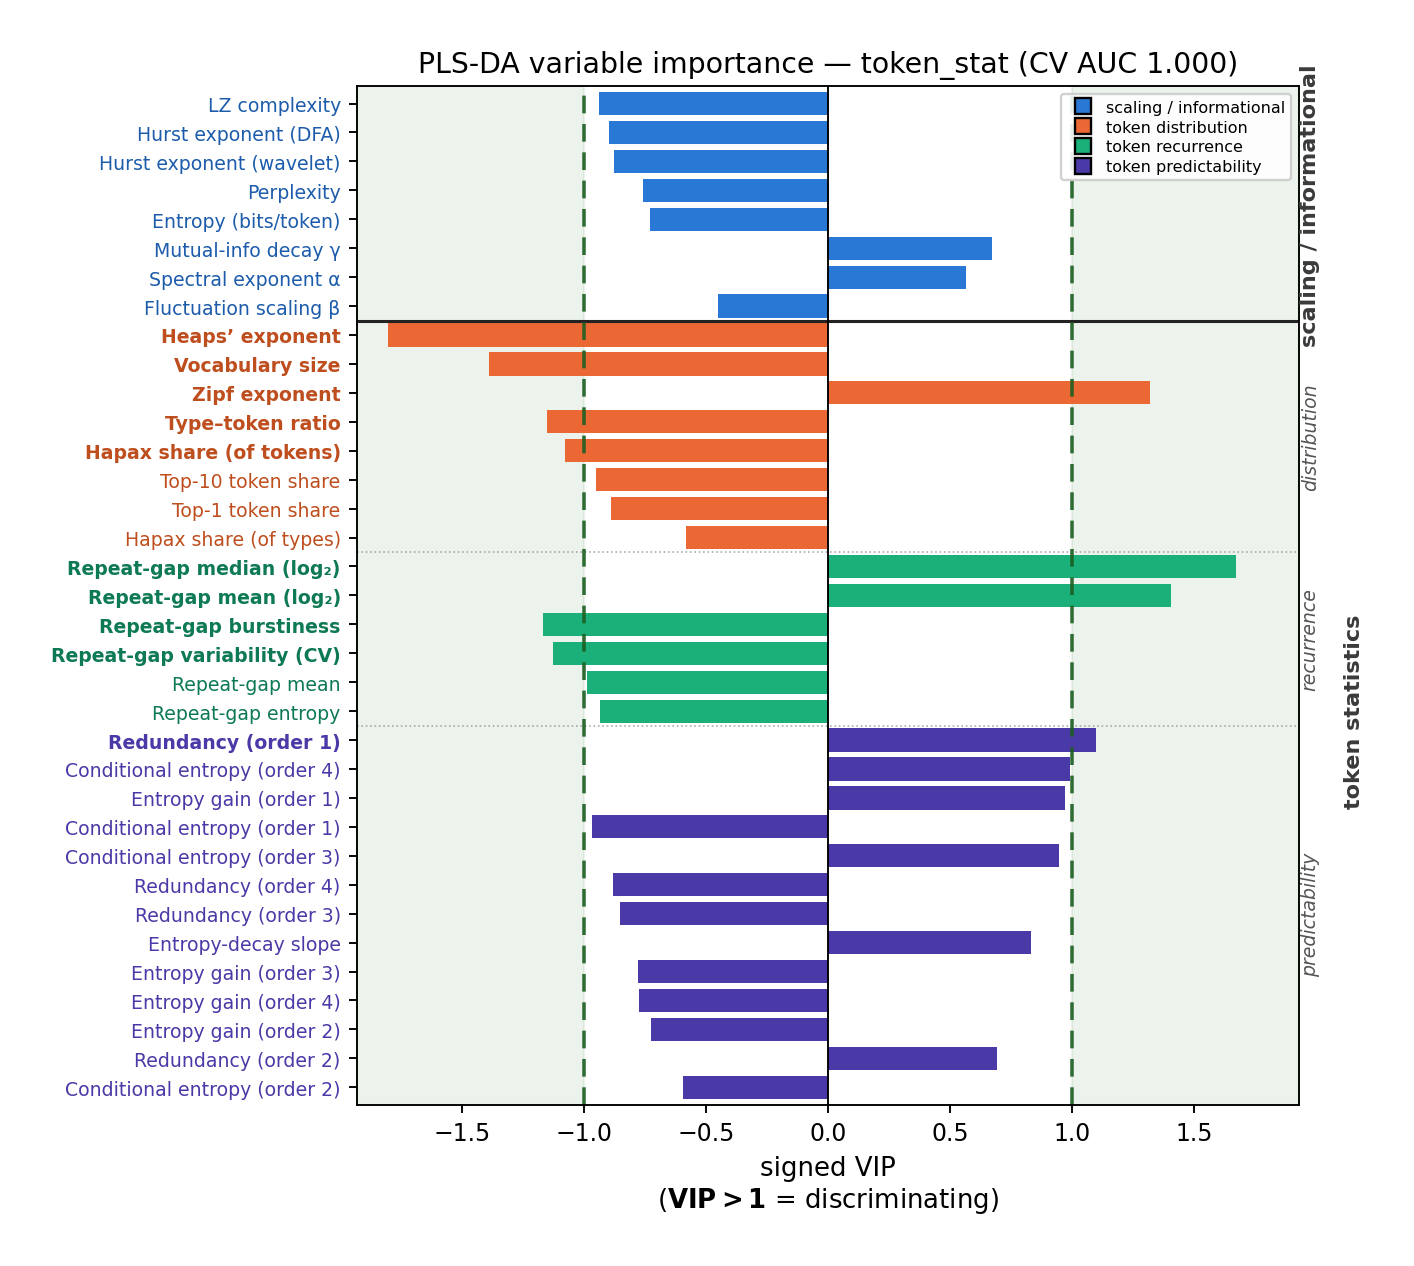
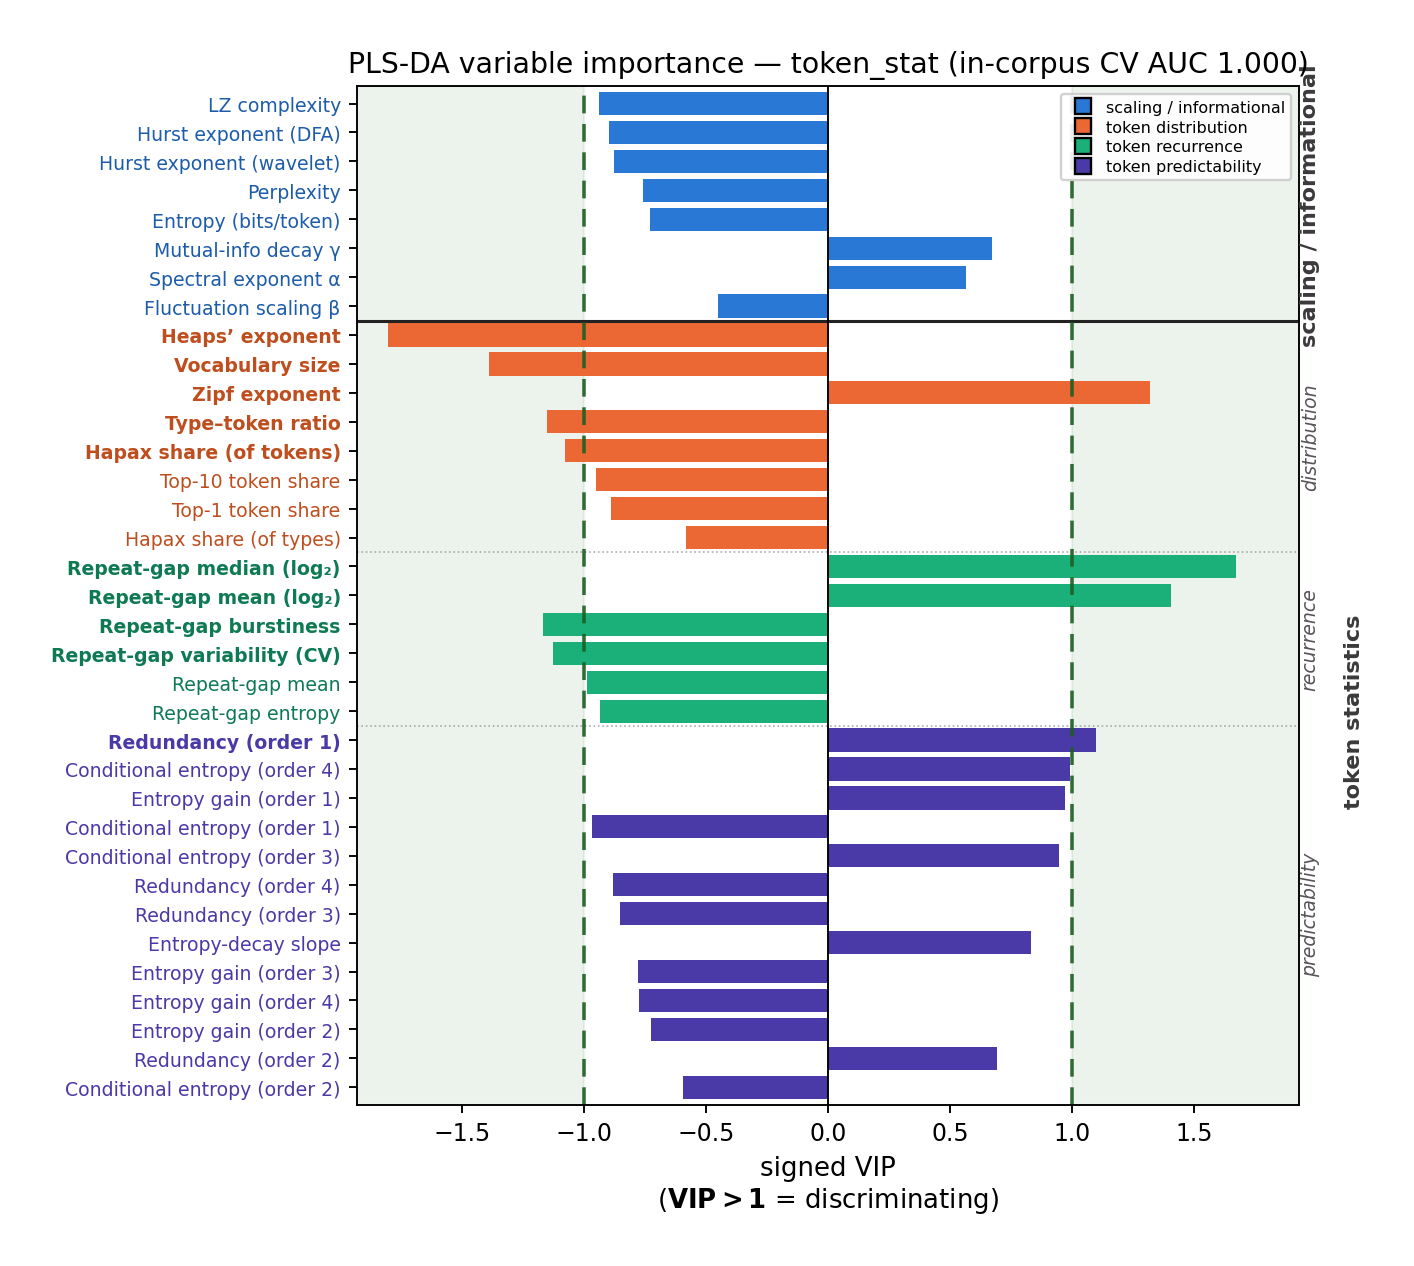
Clarify in-corpus PLS validation

Changed region(s): [[0.2489, 0.0308, 0.9335, 0.0616]]

diff --git a/analysis/plsda_discriminant.py b/analysis/plsda_discriminant.py
@@ -241,7 +241,8 @@ def plot_vip(table: pd.DataFrame, out_path: Path, feature_set: str, auc: float) 
         ax.axvline(x, color="#1B5E20", ls=(0, (5, 3)), lw=1.5, alpha=0.9, zorder=2)
     ax.axvline(0, color="black", lw=0.8)
     ax.set_xlabel("signed VIP\n($\\mathbf{VIP > 1}$ = discriminating)", fontsize=11)
-    ax.set_title(f"PLS-DA variable importance — {feature_set} (CV AUC {auc:.3f})", fontsize=12)
+    ax.set_title(f"PLS-DA variable importance — {feature_set} "
+                 f"(in-corpus CV AUC {auc:.3f})", fontsize=12)
     fams = [f for f in FINE_ORDER if f in set(t["fam"])]
     ax.legend(handles=[plt.Line2D([], [], marker="s", linestyle="", markersize=6.5,
                                   markerfacecolor=FAM_COLOR[f], markeredgecolor="black",
@@ -484,7 +485,7 @@ def score_figure(out_path, Tn, Tg, gen_modes, nat_bins, size_bins, n_feat, fs, a
     else:
         ax.set_title(f"PLS-DA LV{x_component + 1} × LV{y_component + 1} "
                      f"({fs}, {n_feat} feat, per-bin normalized){title_extra}\n"
-                     f"natural vs generated — CV AUC {auc:.3f}")
+                     f"natural vs generated — in-corpus CV AUC {auc:.3f}")
 
     # ── three legends: descriptor-family colours · point types · landmark key ──
     # (1+2) one legend: point types (natural, contours, generated modes) plus
@@ -594,7 +595,7 @@ def plot_per_bin(out_path, Tn, Tg, nat_bins, gen_bins, gen_modes, size_bins,
         ax.set_xlim(*xlim); ax.set_ylim(*ylim); ax.tick_params(labelsize=9)
 
     fig.suptitle(f"PLS-DA ({fs}, {n_feat} feat, per-bin normalized) — per size bin "
-                 f"(CV AUC {auc:.3f})", fontsize=18)
+                 f"(in-corpus CV AUC {auc:.3f})", fontsize=18)
     fig.savefig(out_path, dpi=170, bbox_inches="tight")
     plt.close(fig)
 
@@ -757,13 +758,20 @@ def main() -> None:
     y = np.r_[np.zeros(len(Xn)), np.ones(len(Xg))]
     groups = np.r_[[f"nat{b}" for b in natural["book_id"]],
                    ["gen_" + str(r) for r in generated["run_id"]]]
+    raw_rows = pd.concat([natural, generated], ignore_index=True)
 
-    # group-aware cross-validation
+    # Group-aware CV: all five prefixes from a generated run stay together.
+    # Refit the natural per-bin median/IQR transform inside each training fold
+    # so held-out natural books cannot influence their own normalization.
     cv = StratifiedGroupKFold(n_splits=5, shuffle=True, random_state=0)
     aucs, baccs = [], []
     for tr, te in cv.split(X, y, groups):
-        m = PLSRegression(n_components=args.n_components).fit(X[tr], y[tr])
-        p_tr, p_te = m.predict(X[tr]).ravel(), m.predict(X[te]).ravel()
+        natural_train = natural.iloc[tr[tr < len(natural)]]
+        fold_stats = fit_per_bin_stats(natural_train, feats)
+        Xtr = standardize_per_bin(raw_rows.iloc[tr], feats, fold_stats)
+        Xte = standardize_per_bin(raw_rows.iloc[te], feats, fold_stats)
+        m = PLSRegression(n_components=args.n_components).fit(Xtr, y[tr])
+        p_tr, p_te = m.predict(Xtr).ravel(), m.predict(Xte).ravel()
         # threshold from the train fold (Youden's J) — fixed 0.5 is degenerate
         # under class imbalance
         fpr, tpr, thr = roc_curve(y[tr], p_tr)
@@ -808,7 +816,9 @@ def main() -> None:
                  f"({generated['conditioning_mode'].nunique()} modes)")
     lines.append(f"features: {len(feats)}    latent variables: {args.n_components}")
     lines.append("normalization: per-size-bin median/IQR (matched size); "
-                 "CV: 5-fold StratifiedGroupKFold (run-grouped)")
+                 "CV refits natural-bin statistics in each training fold")
+    lines.append("CV: 5-fold StratifiedGroupKFold (all five prefixes of each "
+                 "generated run held together)")
     lv_parts = [f"LV{i + 1} {value:.1f}%" for i, value in enumerate(lv_var)]
     lines.append("incremental descriptor variance by latent variable: " + ", ".join(lv_parts)
                  + f" (cumulative {np.nansum(lv_var):.1f}%)")
@@ -822,8 +832,10 @@ def main() -> None:
         for metric, relationship in EXCLUDED_PROVENANCE_DUPLICATES.items():
             lines.append(f"  {metric} = {relationship}")
     lines.append("")
-    lines.append(f"Cross-validated AUC              : {np.mean(aucs):.3f} ± {np.std(aucs):.3f}")
+    lines.append(f"In-corpus run-grouped CV AUC     : {np.mean(aucs):.3f} ± {np.std(aucs):.3f}")
     lines.append(f"Cross-validated balanced accuracy: {np.mean(baccs):.3f} ± {np.std(baccs):.3f}")
+    lines.append("scope: discrimination of these 49 generated runs versus this natural-book "
+                 "corpus; not an external-model, prompt, or corpus benchmark")
     lines.append(f"natural score mean {nat_scores.mean():+.2f} | generated score mean {gen_scores.mean():+.2f}")
     lines.append("")
     lines.append("Variable importance (VIP > 1 = important), with matched-size direction:")
@@ -864,7 +876,8 @@ def main() -> None:
         print(f"landmark books projected: {len(landmarks['labels'])}")
     biplot_title = (f"Discriminant descriptor distribution — natural, generated "
                     f"& landmark books\n(showing {len(order)} of {len(feats)} "
-                    f"descriptors with VIP > {args.biplot_vip_min:g}  —  CV AUC {auc:.3f})")
+                    f"descriptors with VIP > {args.biplot_vip_min:g}  —  "
+                    f"in-corpus CV AUC {auc:.3f})")
     score_figure(out_dir / "plsda_biplot.png", Tn, Tg, gen_modes, nat_bins, size_bins,
                  len(feats), args.feature_set, auc, arrows=arrows,
                  landmarks=landmarks, show_bin_means=False, title=biplot_title, lv_var=lv_var,
@@ -889,7 +902,7 @@ def main() -> None:
         biplot_title_lv34 = (
             f"Residual descriptor distribution — natural, generated & landmark books\n"
             f"(LV3 × LV4; showing {len(order)} of {len(feats)} descriptors with "
-            f"VIP > {args.biplot_vip_min:g}  —  CV AUC {auc:.3f})")
+            f"VIP > {args.biplot_vip_min:g}  —  in-corpus CV AUC {auc:.3f})")
         score_figure(out_dir / "plsda_biplot_lv3_lv4.png", Tn, Tg, gen_modes,
                      nat_bins, size_bins, len(feats), args.feature_set, auc,
                      arrows=arrows_lv34, landmarks=landmarks_lv34,
